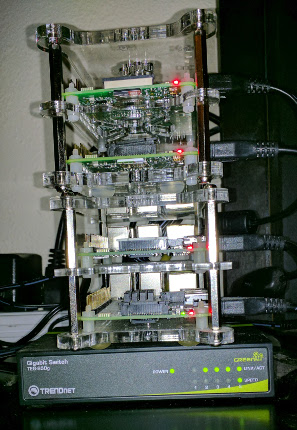
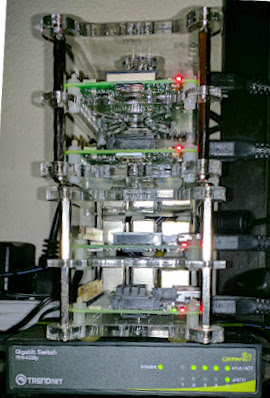
Rebuild it yet again (yay Covid!)

diff --git a/README.md b/README.md
@@ -4,38 +4,54 @@ A collection of notes and scripts for how I set up my personal Kubernetes cluste
 ![PiCluster](PiCluster-11222017.jpg)
 
 ## Background
-Quickly, this started with actually running the "full" Kubernetes application(s) on Raspberry Pi. That stopped
-working around v. 1.9.x due to increased memory requirements, so I detoured into
+Quickly, this started with actually running the "full" Kubernetes application(s) on Raspberry Pi -
+I've been dabbling with Home Automation for a long time and had a collection of Java "services"
+that I wanted to "Docker-ize" and run on something other than my workstation.
 
-- Docker `swarm` (there's a reason it didn't catch on for Enterprise)
-- [k3s](https://k3s.io/)
-  - you can check the change history to see some of the weird deployment issues
-  - the [_jump-start_](java-jumpstart.yaml) hack I was using to dynamically deploy was just painful
+So I needed to be able to deploy custom images from a private Docker repository.
 
-However as of May 2020, `kubeadm` is now fully functional again.
+The initial deployments were around v 1.8 (August 2017) and rather successful. However, the cluster stopped working
+around v. 1.9.x due to increased memory requirements. That was a 6-month lifetime, so I wasn't particularly
+pleased about that.
 
-# Issues
-## Overlay
-Calico didn't work, but Weave does.
+### Docker Swarm - Jan 2018
+When the initial cluster died (hard), I resorted to building out a _Swarm_ cluster. I will admit
+it was very simple to setup and it was workable. However, it was a bit cumbersome: I was relying on 
+a lot of custom scripts with minor variations to mange it. It **probably** would have gotten more traction
+if Kubernetes hadn't arrived at the same time.
 
-## Dashboard
-Basically, all that was needed to do was copy the Dashboard plugins setup.
-The RBAC was changed to user "dashboard-user" instead of "admin-user", so
-that's found in [dashboard-rbac](setup/dashboard-rbac.yaml).
+### K3S - Sep 2019
+[k3s](https://k3s.io/) is a reduced-footprint Kubernetes server/cluster that's intended for
+smaller devices (like the Pi). At the time of it's initial release, K3S was not able to deploy very much
+or very well, especially from a private repository, so I tried to kind of game it.
 
-Add the new [`Service`](setup/dashboard-service.yaml) to expose the dashboard on `NodePort 31080`.
+You can check the change history to see some of the weird deployment items I tried, but I've left
+the [_jump-start_](java-jumpstart.yaml) hack I was using, just as an exercise in masochism.
 
-This is the new command to get the dashboard token (`config` file doesn't work).
+### Kubernetes Again - May 2020
+`kubeadm` is now fully functional again. [This article](https://opensource.com/article/20/6/kubernetes-raspberry-pi)
+is an excellent source for most of the setup. I basically tore down everything, removed all of the prior Kubernetes installation files and cruft,
+ditto for Docker, and started as fresh as you can without reimaging the SD card. I still opted for 32-bit because
+I didn't want to start from bare disk images again, so I stayed on Debian Stretch.
 
-> kubectl -n kubernetes-dashboard describe secret $(kubectl -n kubernetes-dashboard get secret | grep dashboard-user | awk '{print $1}')
+#### Issues
+- Still need to use `docker-ce`, **not** `docker.io` in Stretch
+- For some reason I could not find a way to get rid of the `WARNING: No swap limit support` for Docker
+- Flannel installation was smooth
+- The Dashboard plugins setup worked smoothly - I changed the RBAC to use **dashboard-user** instead of
+  **admin-user** in [dashboard-rbac](setup/dashboard-rbac.yaml).
+  
+  To avoid the awkward proxy syntax, I added the new [`Service`](setup/dashboard-service.yaml)
+  to expose the dashboard on `NodePort 31080`. Note that it still needs to be accessed via `https`:
+  
+  > https://somenode.local:31080
+  
+  Use this command to get the dashboard token:
+  
+  ```bash
+  kubectl -n kubernetes-dashboard describe secret $(kubectl -n kubernetes-dashboard get secret | grep dashboard-user | awk '{print $1}') | grep "token:"
+  ``` 
 
 # Hints and Tricks
-- I couldn't remember which Pi was which, so I used the following to turn on/off the Disk Activity LED on a node:
-  ```bash
-  echo none >/sys/class/leds/led0/trigger # to turn off the default behavior
-  echo 1 >/sys/class/leds/led0/brightness # turn the LED on
-  echo 0 > /sys/class/leds/led0/brightness # turn it off
-  echo mmc0 > /sys/class/leds/led0/trigger # restore original behavior
-  ```
-
-Full instructions: https://www.jeffgeerling.com/blogs/jeff-geerling/controlling-pwr-act-leds-raspberry-pi
+- I couldn't remember which Pi was which, so I used [this script](led-ctrl.sh) to turn on/off the LEDs
+  on a node - [h/t](https://www.jeffgeerling.com/blogs/jeff-geerling/controlling-pwr-act-leds-raspberry-pi)
